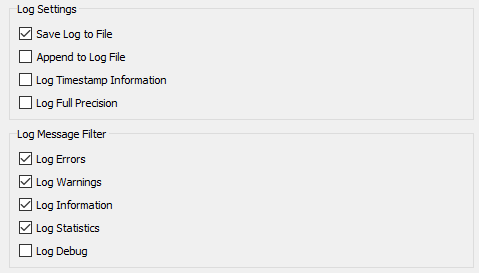
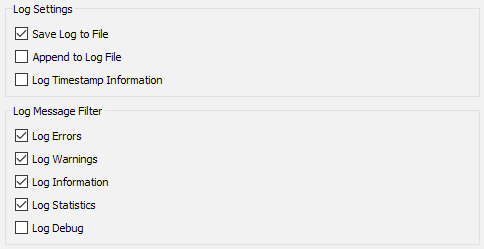
Log file section updates

Changed region(s): [[0.0292, 0.0843, 0.3507, 0.9558], [0.0292, 0.0, 0.1754, 0.0562]]

diff --git a/DesktopAdvanced2WorkspaceDesign/2.05.LogConfigAndSetupSection.md b/DesktopAdvanced2WorkspaceDesign/2.05.LogConfigAndSetupSection.md
@@ -4,24 +4,23 @@ Configuration and setup messages in the FME log tell us vital information about 
 
 ![](./Images/Img2.004.LogConfigSection.png)
 
-For example, here you can see which version of FME is being used (FME2017, 32-bit), its license type (floating), and the machine name (Training2017). If you do have multiple FME versions installed, here’s where you can check to ensure the correct one is running.
+For example, here you can see which version of FME is being used (FME2018, 64-bit), its license type (floating), and the machine name (Training2018). If you do have multiple FME versions installed, here’s where you can check to ensure the correct one is running.
 
-Further on we can see that the system has over 176GB of free space and 4 GB of virtual memory (the maximum possible on 32-bit). We can also see what operating system we are running FME on (Windows Server 10) and what the current language and encoding settings are:
+Further on we can see that the system has 5.17 GB of free space in the FME temporary folder and 128 TB of virtual memory. We can also see what operating system we are running FME on (Windows Server 10) and what the current language and encoding settings are:
 
 ![](./Images/Img2.005.LogConfigSection2.png)
-
 
 Later in the log is important information about the system resources and FME’s memory management:
 
 ![](./Images/Img2.006.LogConfigSection3.png)
 
-In this case there is a limit of 4GB memory per process, indicative of 32-bit processing, but then the machine only has 4GB of total memory anyway. The following numbers indicate how FME will manage memory resources. It will use 2.4GB of memory and then it will start to release memory by caching features to disk. This caching will stop once memory use is less than about 1.8GB.
+In this case, there is a limit of 8GB memory per process. The following numbers indicate how FME will manage memory resources. It will use 24GB of memory and then it will start to release memory by caching features to disk. This caching will stop once memory use is less than 18GB. 
 
 This way FME will perform to its potential automatically, while not taking so much memory that the system may fail or other processes on the system would suffer.
 
-64-bit FME gives a slightly different set of messages, like so:
+32-bit FME gives a slightly different set of messages. The numbers reported include "address space", which is a theoretical limit of the amount of memory FME could use, regardless of available physical memory and disk space: 
 
-![](./Images/Img2.007.LogConfigSection3-64bit.png)
+![](./Images/Img2.007.LogConfigSection3-32bit.png)
 
 ---
 

diff --git a/DesktopAdvanced2WorkspaceDesign/2.03.LogFileInterpretation.md b/DesktopAdvanced2WorkspaceDesign/2.03.LogFileInterpretation.md
@@ -27,7 +27,7 @@ There are a number of options to adjust the log file and what is displayed. To a
 
 These are the options and their default setting:
 
-![](./Images/Img2.002.LogFMEOptions.png)
+![](./Images/Img2.002.LogFMEOptions.png) <!-- Update screenshot --> 
 
 Some of the most important options are as follows...
 
@@ -37,17 +37,49 @@ With this option turned on each message in the log **window** gets stamped with 
 
 ***NB:*** *The log **file** always contains timestamps, regardless of this setting.*
 
-### Log Full Precision ###
-
-Logging full precision means any coordinates that are reported will be listed to their full precision. This is only of real use when trying to compare coordinates between different features.
-
 ### Log Message Filters ###
 
 Filtering options allow each type of message to be turned on or off in the log window. It can be particularly useful to turn off INFORM and STAT messages in order to make it easier to spot ERRORs and WARNs; however it does appear strange at first to run a translation and not see the usual stream of information!
 
+---
+
+<!--New Section--> 
+
+<table style="border-spacing: 0px">
+<tr>
+<td style="vertical-align:middle;background-color:darkorange;border: 2px solid darkorange">
+<i class="fa fa-bolt fa-lg fa-pull-left fa-fw" style="color:white;padding-right: 12px;vertical-align:text-top"></i>
+<span style="color:white;font-size:x-large;font-weight: bold;font-family:serif">NEW</span>
+</td>
+</tr>
+
+<tr>
+<td style="border: 1px solid darkorange">
+<span style="font-family:serif; font-style:italic; font-size:larger">
+Toggle messages buttons have been added to the Translation Log Window for FME2018. 
+<br>In previous versions of FME, you would have to scroll back through the log to find the warning and error messages. Now Error, Warning and Information messages can be toggled on and off, as well as be cycled through using the arrows. 
+<br>Finding that dreaded error message doesn't need to be so tedious anymore. 
+<br><img src="./Images/Img2.046.TranslationLogButtons.png">
+</span>
+</td>
+</tr>
+</table>
+
+---
+
 ### Log Debug ###
 
 The Log Debug option turns on a series of extra log messages that are usually hidden from the user. Not only will a lot of the underlying mapping file be exposed, there will also be a number of ERROR messages labelled BADNEWS.
+
+---
+
+## Log Window Filtering ##
+
+When the log message filters are turned on, the various messages can be toggled on and off: 
+
+<!-- Screenshot -->
+
+In the image above the author is only viewing the error and warning messages. 
 
 ---
 

diff --git a/DesktopAdvanced2WorkspaceDesign/2.06.TranslationTransformationSection.md b/DesktopAdvanced2WorkspaceDesign/2.06.TranslationTransformationSection.md
@@ -14,26 +14,11 @@ This makes for a log file that is harder to understand, because you don’t see 
 
 ---
 
-<!--New Section--> 
+### Feature Tables ###
 
-<table style="border-spacing: 0px">
-<tr>
-<td style="vertical-align:middle;background-color:darkorange;border: 2px solid darkorange">
-<i class="fa fa-bolt fa-lg fa-pull-left fa-fw" style="color:white;padding-right: 12px;vertical-align:text-top"></i>
-<span style="color:white;font-size:x-large;font-weight: bold;font-family:serif">NEW</span>
-</td>
-</tr>
+Feature Tables are a new technology happening behind the scenes in FME. They are for vector or tabular data, but resemble raster or point cloud data in how htey operate. Instead of reading and processing one feature at a time, as before, data is handled more in "chunks", think bulk processing. 
 
-<tr>
-<td style="border: 1px solid darkorange">
-<span style="font-family:serif; font-style:italic; font-size:larger">
-2017 introduced updated formats and transformers that work with new technology that we call Feature Tables.  
-<br><br>Feature Tables are for vector or tabular data, but resemble raster or point cloud data in how they operate. Instead of reading and processing one feature at a time, as before, data is handled more in "chunks".
-<br><br>In general, things should "just work", as they did before, and performance will improve by itself , but it might make interpreting the log window a little bit more difficult than before. So far, only one or two formats use this technology (CSV, MapInfo Extended); but expect to notice more of an impact as we use it throughout the product.
-</span>
-</td>
-</tr>
-</table>
+This bulk processing makes interpreting the log window a little more difficult. So far only a couple formats use this technology (CSV, FFS, MapInfo Extended, SQLite Non-Spatial); but expect to this number to increase with future releases. 
 
 ---
 

diff --git a/DesktopAdvanced2WorkspaceDesign/2.08.LogTimings.md b/DesktopAdvanced2WorkspaceDesign/2.08.LogTimings.md
@@ -15,10 +15,10 @@ Although cumulative time is the amount of time the FME process has spent transla
 For example, examine this section of log timings:
 
 <pre>
-2017-02-10 14:43:06|  8.5| 0.0|
-2017-02-10 14:43:13|  8.8| 0.3|
-2017-02-10 14:46:29| 18.0| 9.1|
-2017-02-10 14:49:29| 25.8| 7.9|
+2018-02-10 14:43:06|  8.5| 0.0|
+2018-02-10 14:43:13|  8.8| 0.3|
+2018-02-10 14:46:29| 18.0| 9.1|
+2018-02-10 14:49:29| 25.8| 7.9|
 </pre>
 
 The difference between the start absolute time (14:43) and the finish absolute time (14:49) is over six minutes. However, FME is only reporting 25.8 seconds of processing time!
@@ -28,10 +28,10 @@ The “lost” time is down to external processes that FME was waiting on.
 For example, maybe the message content would look like this:
 
 <pre>
-2017-02-10 14:43:06|  8.5| 0.0| Preparing SQL query
-2017-02-10 14:43:13|  8.8| 0.3| Sending SQL query
-2017-02-10 14:46:29| 18.0| 9.1| Received initial database response
-2017-02-10 14:49:29| 25.8| 7.9| Received data from database query
+2018-02-10 14:43:06|  8.5| 0.0| INFORM| Preparing SQL query
+2018-02-10 14:43:13|  8.8| 0.3| INFORM| Sending SQL query
+2018-02-10 14:46:29| 18.0| 9.1| INFORM| Received initial database response
+2018-02-10 14:49:29| 25.8| 7.9| INFORM| Received data from database query
 </pre>
 
 Now we can see that it was a database query that FME was waiting for. The more the query was not well-formed or the database not well-structured, the longer the time difference would be.
